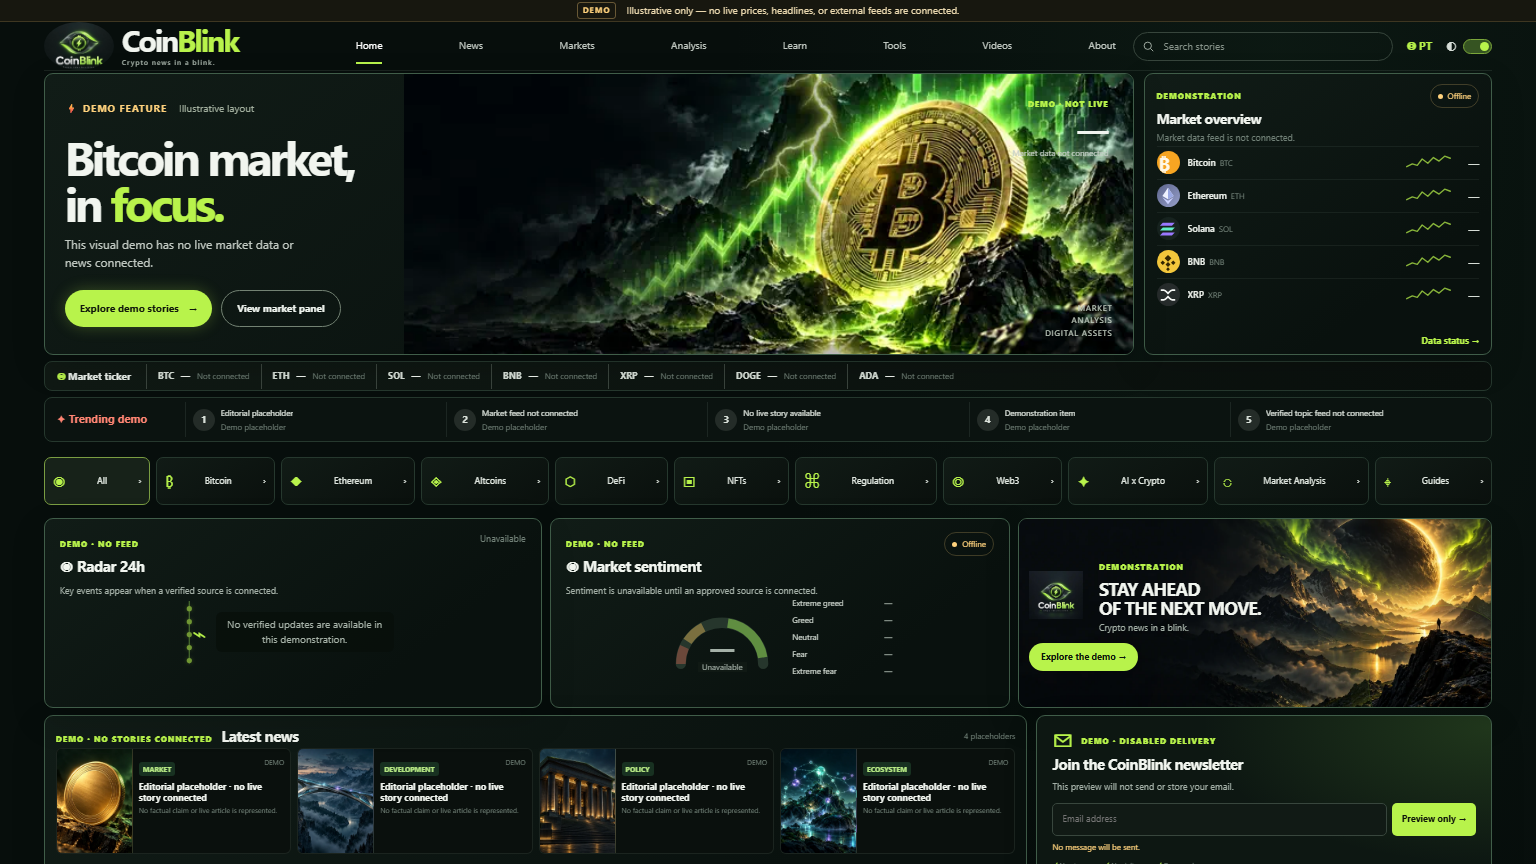
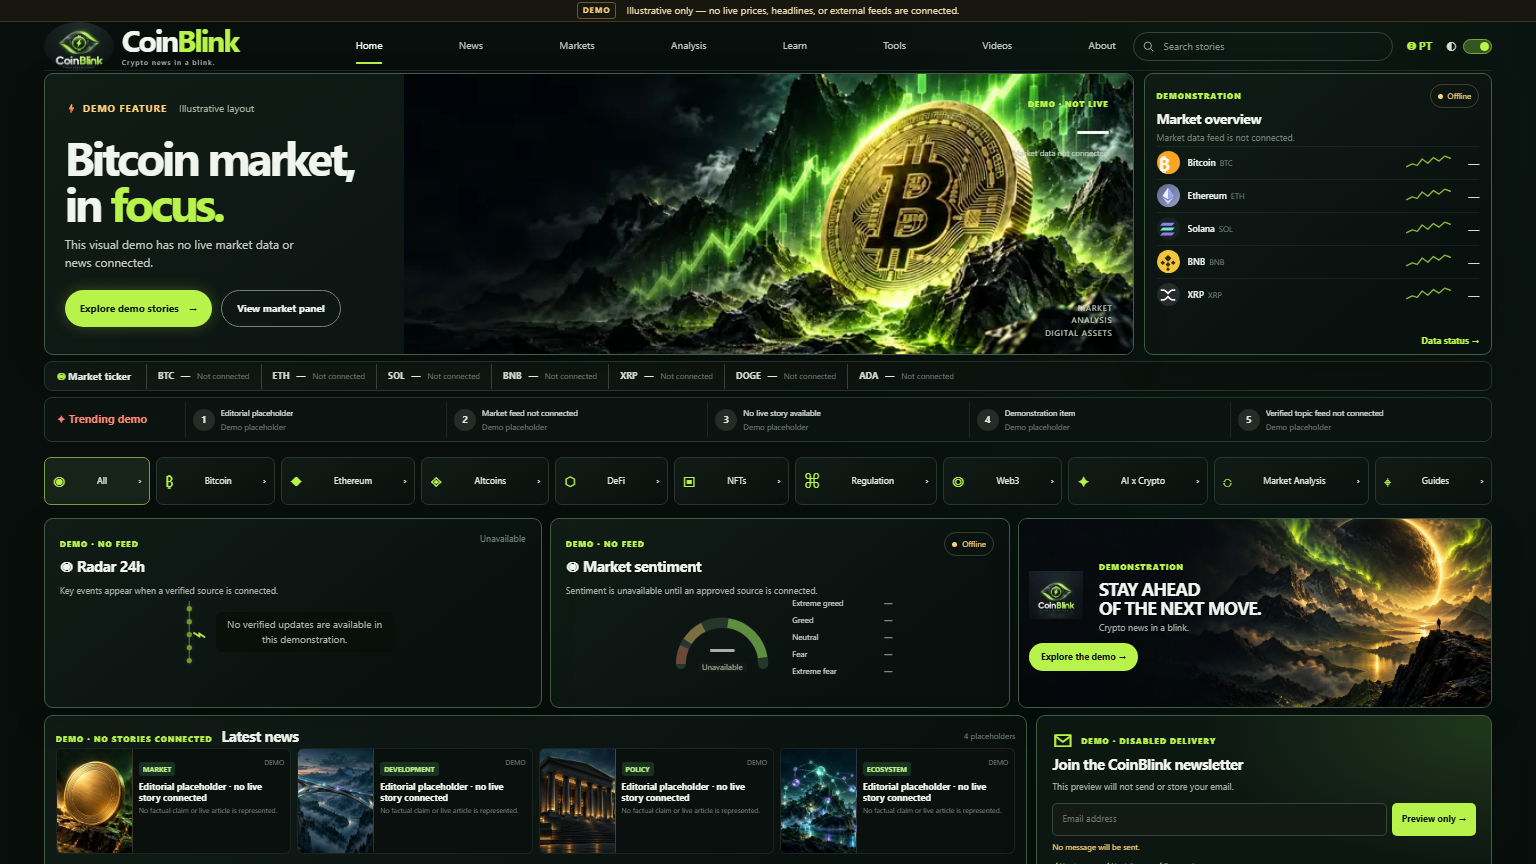
docs(evidence): [CB-M01-WO-001] refresh tested R26 hashes

Changed region(s): [[0.375, 0.0625, 0.75, 0.4375]]

diff --git a/.engineering/evidence/CB-M01-WO-001/R26_LOCAL_DELIVERY.md b/.engineering/evidence/CB-M01-WO-001/R26_LOCAL_DELIVERY.md
@@ -7,7 +7,7 @@
 - Repository: `KayzenRoot/coinblink`, PR [#58](https://github.com/KayzenRoot/coinblink/pull/58)
 - Branch: `codex/cb-m01-wo-001-impl-20261011`
 - Frozen base: `07f31d8e3e7b7b7d3534274199dfc0e4e07a2f1c`
-- Tested code HEAD: `52eaba80a7d98d021e9a9473706f7dfb6b6bb803`
+- Tested code HEAD: `552faf6a214312fb7cb01ec0a1ba311352bc2db0`
 - Runtime: Node.js `v22.23.3`, npm `10.9.9`, Wrangler `4.149.0 --local`
 - Product state: `DEMO`; `authorizedToMerge=false`
 
@@ -33,9 +33,9 @@ WebP derivatives are 73,490–98,994 bytes each. All five PNG/WebP pairs are bel
 
 | Viewport | Size | HTTP | Document width | Axe violations | Screenshot SHA-256 |
 | --- | ---: | ---: | ---: | ---: | --- |
[6 lines of base64/hex data omitted]
 
 The report records no browser console errors, page errors, or external requests. The shared `script-src 'self'` CSP remains unchanged. Hero motion decodes and is visible on the normal-motion route; `prefers-reduced-motion` and Save-Data both select the static master. A motion-load failure recovers to the static hero while retaining title and CTA (hero Axe violations: 0); full preview failure leaves the vector fallback visible. Promo and four editorial images load lazily, retain their SVG fallbacks, and remain decorative.
 
@@ -43,8 +43,8 @@ Constrained runs used 250 ms latency, 200 KB/s download, 4× CPU throttling, and
 
 | Scenario | Selected asset | Transfer | LCP | CLS | Long tasks |
 | --- | --- | ---: | ---: | ---: | ---: |
-| Desktop 1536×864, motion allowed | 640×320 motion WebP | 1,395,024 B | 1,956 ms | 0 | 0 |
-| Mobile 390×844, emulated 3G | 1774×887 static WebP | 310,354 B | 1,444 ms | 0 | 0 |
+| Desktop 1536×864, motion allowed | 640×320 motion WebP | 1,395,024 B | 2,648 ms | 0 | 0 |
+| Mobile 390×844, emulated 3G | 1774×887 static WebP | 310,354 B | 1,552 ms | 0 | 0 |
 
 The mobile constrained run requested no motion asset. Save-Data requested one static image and no motion image. Normal desktop motion body size was 1,394,724 bytes. These results are not a claim of field performance.
 
@@ -56,11 +56,13 @@ The existing portable animation project was reopened read-only with Blender `5.2
 
 All commands below used Node.js `v22.23.3` and npm `10.9.9`:
 
-- `npm test` — passed: 192/192 unit tests, Astro/Cloudflare build, 34/34 Playwright E2E tests.
+- `npm test` — passed at code HEAD `552faf6a214312fb7cb01ec0a1ba311352bc2db0`: 192/192 unit tests, Astro/Cloudflare build, 34/34 Playwright E2E tests.
 - `npm run lint` — passed with `--max-warnings=0`.
 - `npm run typecheck` — passed: 79 Astro files, 0 errors, 0 warnings, 0 hints.
 - `npm audit --audit-level=high` — passed: 0 vulnerabilities found.
 - `node test/modules/CB-M01/integrated-visual-check.mjs` — passed as part of `npm test`; evidence report records the tested HEAD, viewports, fallbacks, reduced motion, Save-Data, constrained network, and screenshots.
+
+Hosted workflow run [38605705651](https://github.com/KayzenRoot/coinblink/actions/runs/38605705651) checked exact code HEAD `552faf6a214312fb7cb01ec0a1ba311352bc2db0` and passed on Ubuntu and Windows, including unit, build, browser, accessibility, GEF, lint, and typecheck. Docker Compose smoke, SonarCloud, and both Socket checks passed. CodeRabbit reports “Review skipped: automatic reviews are disabled”; this is not a code review. A preceding run on `8f2bd454de2768dedb3a197e59c3a01a1f0be92b` exposed a Linux-only keyboard test interaction; the test now sends Enter through the focused About link and awaits `#footer`, and the rerun passed on both platforms.
 
 The test runner regenerated the legacy R25 `visual-check.json` and R25 screenshots during the full suite; those historical files were restored unchanged after validation. R26 screenshots and the R26 report are retained separately.
 
